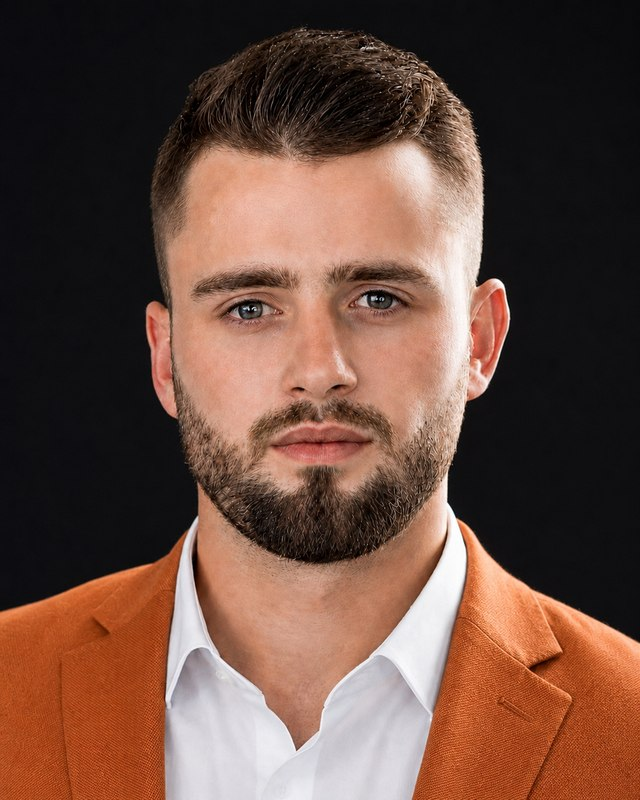
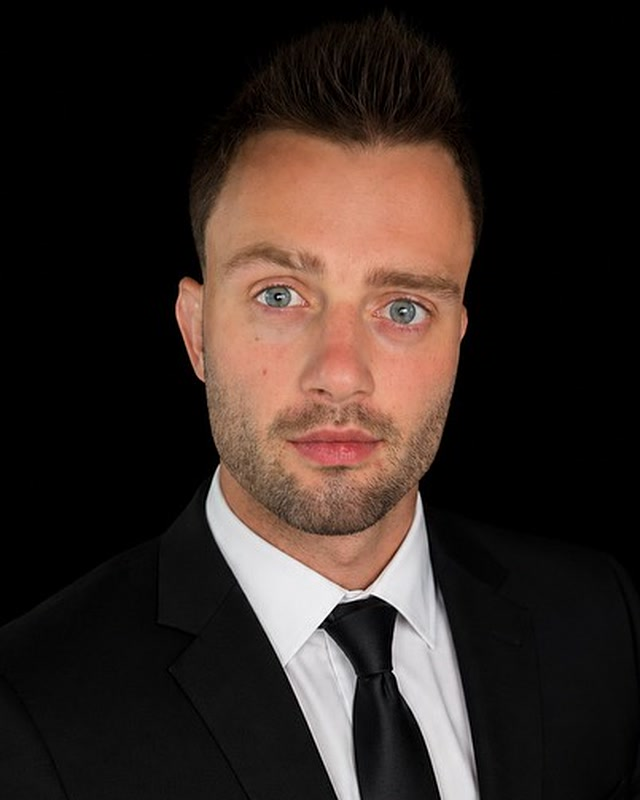
About: new Jayden headshot, cropped to match the team framing, cache-buster v3

diff --git a/about.html b/about.html
@@ -255,7 +255,7 @@ html.lenis,html.lenis body{height:auto}
         </div>
       </article>
       <article class="fc">
-        <div class="fc-photo"><img src="/team/jayden.jpg?v=2" alt="Jayden Nielsen, Co-Founder and Chief Financial Officer of Drive AI Sales Inc." loading="lazy" decoding="async"></div>
+        <div class="fc-photo"><img src="/team/jayden.jpg?v=3" alt="Jayden Nielsen, Co-Founder and Chief Financial Officer of Drive AI Sales Inc." loading="lazy" decoding="async"></div>
         <div class="fc-body">
           <div class="fc-name">Jayden Nielsen</div>
           <div class="fc-role">Co-Founder &middot; Chief Financial Officer</div>
